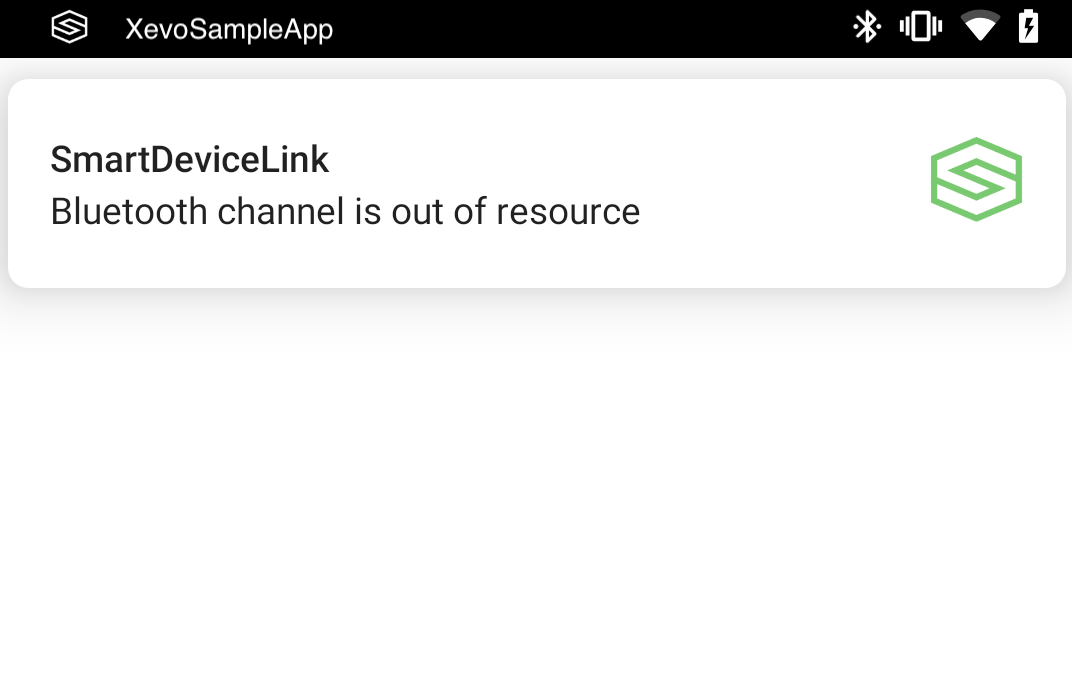
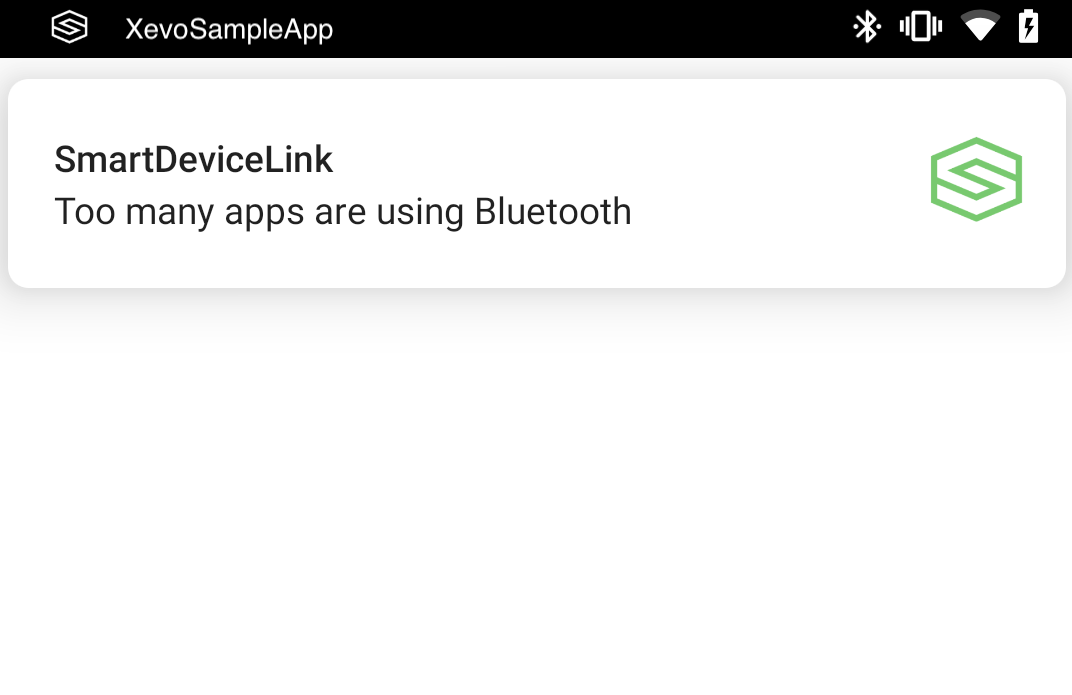
Revise SDL-0230: SPP resource management for Android (#770)
* Revise SDL-0230 based on the discussion at https://github.com/smartdevicelink/sdl_evolution/issues/730.

* Update some screenshots, and strings used for error UX.

* Update the proposal based on some internal review.

* Update SDL-0230 proposal based on the feedback at https://github.com/smartdevicelink/sdl_evolution/pull/770.

Changed region(s): [[0.0308, 0.2115, 0.6157, 0.3324]]

diff --git a/proposals/0230-spp-resource-management-for-android.md b/proposals/0230-spp-resource-management-for-android.md
@@ -22,28 +22,77 @@ This proposal focuses on the case where Proxy detects the SPP resource error, an
 
 ### Detect the case where BluetoothServerSocket fails to accept a connection from head unit. 
 Even though we could detect the case, we cannot increase the number of available SPP resources, because they are used by other apps.
-All we can do in this case is notify users that SPP channel runs out of available resources, and let users close some apps that may use the BluetoothSocket. It's not practical to show SPP service records that are used by Bluetooth adapter. It's sufficient just to notify users that we're running out of resources.
+All we can do in this case is notify users that SPP channel runs out of available resources, and let users close some apps that may use the BluetoothSocket. It's not practical to show SPP service records that are used by Bluetooth adapter. The proposed approach is to notify users that we're running out of resources, and gives more information when the user requests it.
 
-Prior to detecting the error, we can define the runnable interface as the listener in MultiplexBluetoothTransport class:
+Prior to detecting the error, ```setState``` and ```notifyStateChanged``` in MultiplexBaseTransport class need to be extended, so that they can notify an error:
 ```java
-    private Runnable mSocketErrorListener;
-```
-and define the setter:
-```java
-    public void setSocketErrorListener(Runnable onError) {
-        mSocketErrorListener = onError;
+    public static final String ERROR_REASON_KEY = "ERROR_REASON";
+    public static final byte REASON_SPP_ERROR   = 0x01;    // REASON = SPP error, which is sent through Message.arg2.
+    public static final byte REASON_NONE        = 0x0;
+
+    protected synchronized void setState(int state, byte error) {
+        if(state == mState){
+            return; //State hasn't changed. Will not update listeners.
+        }
+        int arg2 = mState;
+        mState = state;
+
+        // Give the new state to the Handler so the UI Activity can update
+        // Also send the previous state so we know if we lost a connection
+        notifyStateChanged(state, arg2, error);
+    }
+
+    private void notifyStateChanged(int arg1, int arg2, byte error) {
+        Message msg = handler.obtainMessage(SdlRouterService.MESSAGE_STATE_CHANGE, arg1, arg2, getTransportRecord());
+        Bundle bundle = new Bundle();
+        bundle.putByte(ERROR_REASON_KEY, error);
+        msg.setData(bundle);
+        msg.sendToTarget();
     }
 ```
 
-In SdlRouterService, we can implement the runnable to utilize notification channel something like below:
+In MultiplexBluetoothTransport, stop method needs to be extended, so that the error information is passed to setState:
 ```java
-    bluetoothTransport.setSocketErrorListener(new Runnable() {
-        @Override
-        public void run() {
-            // utilize Android notification channel in this case.
-            notifySppError();
-        }
-    });
+    @Override
+    protected synchronized void stop(int stateToTransitionTo, byte error) {
+    	super.stop(stateToTransitionTo, error);
+    	
+    	...
+        setState(stateToTransitionTo, error);
+    }
+```
+
+The stop method gets called when server socket's accept failed:
+```java
+
+    try {
+        ...
+        socket = mServerSocket.accept();
+    } catch(IOException e) {
+        MultiplexBluetoothTransport.this.stop(STATE_ERROR, REASON_SPP_ERROR);
+        return;
+    }
+```
+
+When TransportHandler in SdlRouterService detects STATE_ERROR, notifies it to user:
+```java
+	private static class TransportHandler extends Handler{
+	    @Override
+	    public void handleMessage(Message msg) {
+	        case MESSAGE_STATE_CHANGE:
+	            TransportRecord transportRecord = (TransportRecord) msg.obj;
+	            switch (msg.arg1) {
+	        	....
+                case MultiplexBaseTransport.STATE_ERROR:
+                    service.onTransportError(transportRecord);
+                    Bundle reason = msg.getData();
+                    if (reason != null && reason.getByte(MultiplexBaseTransport.ERROR_REASON_KEY) == MultiplexBaseTransport.REASON_SPP_ERROR) {
+                        service.notifySppError();
+                    }
+                    break;
+                }
+	    }
+	}
 ```
 
 notifySppError() method looks like below:
@@ -51,7 +100,7 @@ notifySppError() method looks like below:
 	/**
 	 * notifySppError: utilize notification channel to notify the SPP out-of-resource error.
 	 */
-	@TargetApi(28)
+	@TargetApi(11)
 	public void notifySppError() {
 		Notification.Builder builder;
 		if(android.os.Build.VERSION.SDK_INT < Build.VERSION_CODES.O){
@@ -68,35 +117,37 @@ notifySppError() method looks like below:
 		int trayId = getResources().getIdentifier("sdl_tray_icon", "drawable", getPackageName());
 
 		builder.setSmallIcon(trayId);
-		Bitmap icon = BitmapFactory.decodeResource(getResources(), R.drawable.ic_sdl);
+		Bitmap icon = BitmapFactory.decodeResource(getResources(), R.drawable.ic_sdl_error); // use another icon for error notification
 		builder.setLargeIcon(icon);
 
 		// Create an intent that will be fired when the user clicks the notification.
-		// The code snippet implements a new activity, called SdlNotificationActivity.
-		Intent intent = new Intent(getApplicationContext(), SdlNotificationActivity.class);
+		// user apps can override getErrorNotificationIntent, to provide the custom UX when user clicks on the notification.
+		Intent intent = getErrorNotificationIntent(MultiplexBaseTransport.REASON_SPP_ERROR);
+		if (intent == null) {
+			// use Webpage by default
+			intent = new Intent(Intent.ACTION_VIEW, Uri.parse(SDL_SPP_ERROR_WEB_PAGE + "?lang=" + Locale.getDefault().getDisplayLanguage()));
+		}
 		PendingIntent pendingIntent = PendingIntent.getActivity(this, 0, intent, 0);
 		builder.setContentIntent(pendingIntent);
 		builder.setOngoing(false);
 
-		synchronized (NOTIFICATION_LOCK) {
-			final String tag = "SDL";
-			//Now we need to add a notification channel
-			final NotificationManager notificationManager = (NotificationManager) getSystemService(Context.NOTIFICATION_SERVICE);
-			if (notificationManager != null) {
-				notificationManager.cancel(tag, TransportConstants.SDL_ERROR_NOTIFICATION_CHANNEL_ID_INT);
-				if (Build.VERSION.SDK_INT >= Build.VERSION_CODES.O) {
-					NotificationChannel notificationChannel = new NotificationChannel(TransportConstants.SDL_ERROR_NOTIFICATION_CHANNEL_ID, getString(R.string.sdl_error_notification_channel_name), NotificationManager.IMPORTANCE_HIGH);
-					notificationChannel.enableLights(true);
-					notificationChannel.enableVibration(true);
-					notificationChannel.setShowBadge(false);
-					notificationManager.createNotificationChannel(notificationChannel);
-					builder.setChannelId(notificationChannel.getId());
-				}
-				Notification notification = builder.build();
-				notificationManager.notify(tag, TransportConstants.SDL_ERROR_NOTIFICATION_CHANNEL_ID_INT, notification);
-			} else {
-				Log.e(TAG, "notifySppError: Unable to retrieve notification Manager service");
+		final String tag = "SDL";
+		//Now we need to add a notification channel
+		final NotificationManager notificationManager = (NotificationManager) getSystemService(Context.NOTIFICATION_SERVICE);
+		if (notificationManager != null) {
+			notificationManager.cancel(tag, TransportConstants.SDL_ERROR_NOTIFICATION_CHANNEL_ID_INT);
+			if (Build.VERSION.SDK_INT >= Build.VERSION_CODES.O) {
+				NotificationChannel notificationChannel = new NotificationChannel(TransportConstants.SDL_ERROR_NOTIFICATION_CHANNEL_ID, getString(R.string.sdl_error_notification_channel_name), NotificationManager.IMPORTANCE_HIGH);
+				notificationChannel.enableLights(true);
+				notificationChannel.enableVibration(true);
+				notificationChannel.setShowBadge(false);
+				notificationManager.createNotificationChannel(notificationChannel);
+				builder.setChannelId(notificationChannel.getId());
 			}
+			Notification notification = builder.build();
+			notificationManager.notify(tag, TransportConstants.SDL_ERROR_NOTIFICATION_CHANNEL_ID_INT, notification);
+		} else {
+			Log.e(TAG, "notifySppError: Unable to retrieve notification Manager service");
 		}
 	}
 ```
@@ -131,7 +182,21 @@ And the channel ("SDL Error") should be configured like below:
 
 ### When user clicks on notification popup
 
-In previous code snippet (Code-1), SdlNotificationActivity is specified for ContentIntent. The activity is shown when user clicks on the notification popup.
+In previous code snippet (Code-1), we get the Intent from getErrorNotificationIntent method, which can be overridden in user's app:
+
+```java
+	/**
+	 * This method can be overridden by developer in their own SdlRouterService class.
+	 * @param error
+	 * @return
+	 */
+	public Intent getErrorNotificationIntent(int error) {
+		return null;
+	}
+```
+
+By default (i.e. if developer does NOT override getErrorNotificationIntent), library will lead users to WebPage, which explains what happened.
+The details of error text on the WebPage is still TBD. In addition to the Webpage, sdl_java_suite library is expected to include the error activity to provide the consistent and localized error UX.
 
 The sample UX of SdlNotificationActivity looks like below:
 
@@ -140,9 +205,10 @@ The sample UX of SdlNotificationActivity looks like below:
 All strings used for this error UX is defined in strings.xml like below:
 
 ```java
-    <string name="spp_out_of_resource">Bluetooth channel is out of resource</string>
+    <string name="spp_out_of_resource">Too many apps are using Bluetooth</string>
     <string name="notification_title">SmartDeviceLink</string>
-    <string name="spp_out_of_resource_message">There are too many bluetooth apps running on your device. Please close them and try to re-connect</string>
+    <string name="spp_out_of_resource_message">There are too many bluetooth apps running on your device. Please close some of them and try to re-connect</string>
+    <string name="spp_out_of_resource_possible_apps">Following apps may use Bluetooth: </string>
     <string name="button_ok">OK</string>
     <string name="sdl_error_notification_channel_name">SDL Error</string>
 ```
@@ -158,10 +224,67 @@ ar_SA, cs_CZ, da_DK, de_DE, el_GR, en_AU, en_GB, en_IN, en_SA, en_US, es_ES, es_
 
 The default language would be en_US.
 
-Regarding who is responsible for the localization process, three steps are proposed:
+Regarding who is responsible for the localization process, two steps are proposed:
 1. English strings (which is default language) must be properly reviewed and maintained by steering committee.
-2. Because the strings used for error UX are rather simple, we can use machine translation (e.g. Google translate) to get other languages localized.
-3. If some steering committee members are familiar with some languages, we can get reviewed by native speakers and get revised string if needed.
+2. Localized strings are maintained by project maintainer, and steering committee will be responsible for sign off of those localized strings.
+
+### Listing application that uses Bluetooth
+
+When SPP resource error is detected, if we can narrow down the apps that actually use the Bluetooth socket, that will be helpful for users to get recovered. Unfortunately, it is not realistic to identify exactly what apps are using Bluetooth. We can, however, list applications that request bluetooth permission, something like below:
+
+```java
+	public static List<ApplicationInfo> checkBluetoothApps(Context context) {
+		PackageManager pm = context.getPackageManager();
+		List<ApplicationInfo> packages = pm.getInstalledApplications(PackageManager.GET_META_DATA);
+		List<ApplicationInfo> bluetoothApps = new ArrayList<>();
+
+		// also get SdlPackages
+		HashMap<String, ResolveInfo> sdlApps = AndroidTools.getSdlEnabledApps(context, null);
+
+		for (ApplicationInfo applicationInfo : packages) {
+			//   let's take a look at non-SDL apps only
+			if (sdlApps.containsKey(applicationInfo.packageName)) {
+				Log.d(TAG, "skip SDL App: " + applicationInfo.packageName);
+			} else {
+				try {
+					PackageInfo packageInfo = pm.getPackageInfo(applicationInfo.packageName, PackageManager.GET_PERMISSIONS);
+
+					//Get Permissions
+					String[] requestedPermissions = packageInfo.requestedPermissions;
+					boolean usesBluetooth = false;
+					if (requestedPermissions != null) {
+						for (int i = 0; i < requestedPermissions.length; i++) {
+							if (Manifest.permission.BLUETOOTH.equalsIgnoreCase(requestedPermissions[i])
+									|| Manifest.permission.BLUETOOTH_ADMIN.equalsIgnoreCase(requestedPermissions[i])) {
+								usesBluetooth = true;
+								break;
+							}
+
+						}
+					}
+					if (usesBluetooth) {
+						if ((applicationInfo.flags & ApplicationInfo.FLAG_SYSTEM) != 0) {
+							Log.i(TAG, "checkBluetoothPermissions: exclude system app: " + applicationInfo.packageName);
+						} else {
+							bluetoothApps.add(applicationInfo);
+							CharSequence appName = pm.getApplicationLabel(applicationInfo);
+							if (appName != null) {
+								Log.i(TAG, "checkBluetoothPermissions: " + appName + " uses bluetooth");
+							} else {
+								Log.i(TAG, "checkBluetoothPermissions: null uses bluetooth");
+							}
+						}
+					}
+				} catch (PackageManager.NameNotFoundException e) {
+					e.printStackTrace();
+				}
+			}
+		}
+		return bluetoothApps;
+	}
+```
+
+Showing the list to the user will be optional (at least developers can choose), because we may need to determine if it is worth doing or not.
 
 ## Potential downsides
 
@@ -174,4 +297,4 @@ There's no impact to existing code, because all error UX is provided by Proxy. D
 
 ## Alternatives considered
 
-Does sdl_java_suite library need to have all localized strings? This question is raised because the supported languages can be varied on the app.
+Does sdl_java_suite library need to have all localized strings? This question is raised because the supported languages can be varied on the app. As the result of some discussion, steering committee will be responsible for all localized strings.
